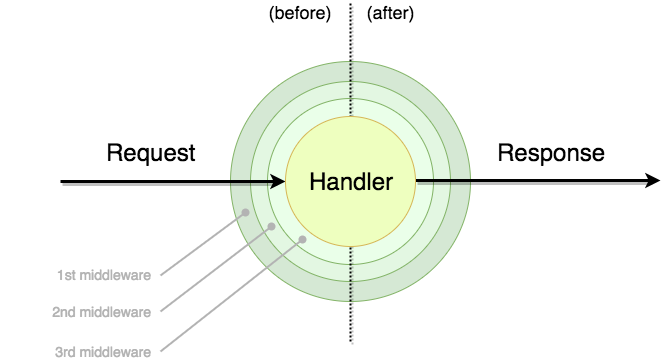
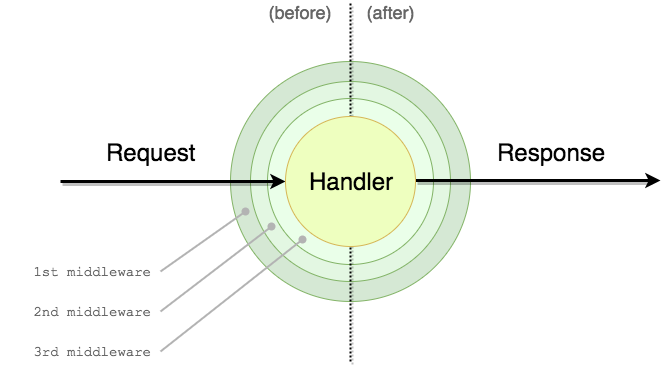
fixed typo and improved middleware image

diff --git a/src/middy.js b/src/middy.js
@@ -3,7 +3,7 @@
  * @type function
  * @param {Object} event - the AWS Lambda event from the original handler
  * @param {Object} context - the AWS Lambda context from the original handler
- * @param {function} callback - the AWS Lambca callback from the original handler
+ * @param {function} callback - the AWS Lambda callback from the original handler
  * @property {useFunction} use - attach a new middleware
  * @property {middlewareAttachFunction} before - attach a new *before-only* middleware
  * @property {middlewareAttachFunction} after - attach a new *after-only* middleware

diff --git a/README.md b/README.md
@@ -395,7 +395,7 @@ Middy factory function. Use it to wrap your existing handler to enable middlewar
 | --- | --- | --- |
 | event | <code>Object</code> | the AWS Lambda event from the original handler |
 | context | <code>Object</code> | the AWS Lambda context from the original handler |
-| callback | <code>function</code> | the AWS Lambca callback from the original handler |
+| callback | <code>function</code> | the AWS Lambda callback from the original handler |
 
 **Properties**
 
